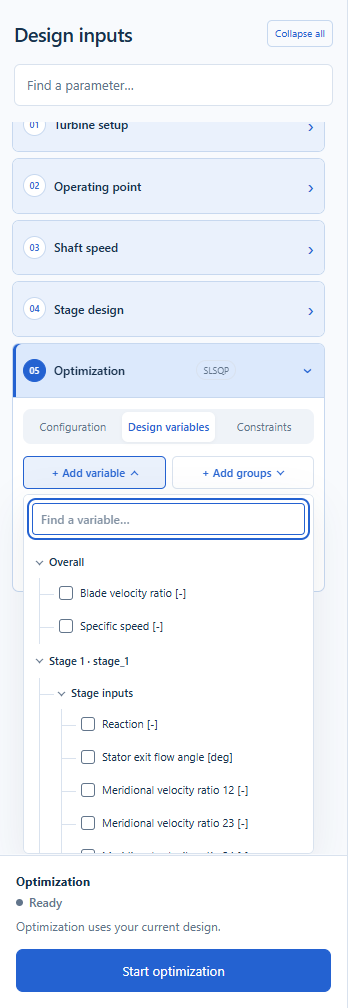
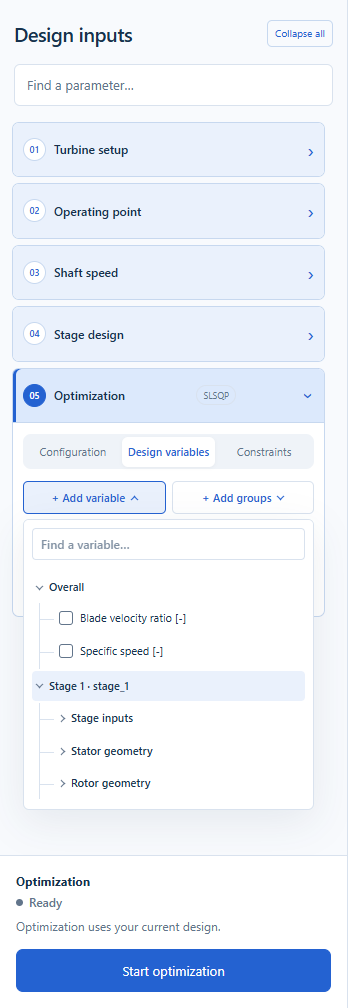
docs(app-design): refine compact editor examples and theme references
Align style-guide specimens with embedded field labels and optimization status wording, document delayed accessible tab help and reduced-motion behavior, and refresh reference captures and implementation fingerprints.

diff --git a/development/app_design/style_guide.html b/development/app_design/style_guide.html
@@ -107,7 +107,7 @@
         <div class="shell-diagram">
           <div class="diagram-header"><strong>turbodash</strong><span>Load / Save · Project links · Theme</span></div>
           <div class="diagram-rail"><span><b aria-hidden="true">◉</b>Meanline</span><span><b aria-hidden="true">◇</b>Geometry</span><span><b aria-hidden="true">▦</b>Mesh</span></div>
-          <div class="diagram-inspector"><strong>Parameter inspector</strong><span>Search</span><span>01 Turbine setup</span><span>02 Fluid state</span><span>03 Shaft speed</span><span>04 Stage design</span><span>05 Optimization</span><small>Sticky context<br>Independent scroll<br>Resize handle</small></div>
+          <div class="diagram-inspector"><strong>Parameter inspector</strong><span>Search</span><span>01 Turbine setup</span><span>02 Operating point</span><span>03 Shaft speed</span><span>04 Stage design</span><span>05 Optimization</span><small>Sticky context<br>Independent scroll<br>Resize handle</small></div>
           <div class="diagram-canvas"><strong>Results canvas</strong><p>Context and current state</p><div class="diagram-metrics"><span>Overview</span><span>Metrics</span></div><div class="diagram-plot">Geometry / plot pair</div><span class="diagram-report">Collapsible reports and technical output</span></div>
         </div>
         <figcaption>Anatomy schematic, not a running app. Desktop defaults: header 72 px, rail 92 px, inspector 348 px. The actual inspector becomes a Parameters drawer at ≤850 px; this schematic stacks its labeled regions on small screens.</figcaption>
@@ -122,15 +122,15 @@
           <details class="numbered-disclosure"><summary><span class="number-badge">04</span><span>Stage design</span></summary><div class="disclosure-body"><p class="small">Named-stage context belongs beside aerodynamic and blade-row subgroups. Keep values visible when switching editing context.</p></div></details>
         </article>
         <article class="surface component-demo"><h3>Aligned optimization rows</h3><p class="small">Example values show the layout; they are not a recommended engineering configuration.</p>
-          <div class="editor-row"><p class="row-title">Variable · sample quantity</p><div class="three-fields"><label for="sample-lower">Lower<input id="sample-lower" type="number" value="0.1" step="any"></label><label for="sample-initial">Initial<input id="sample-initial" type="number" value="0.5" step="any"></label><label for="sample-upper">Upper<input id="sample-upper" type="number" value="0.9" step="any"></label></div></div>
-          <div class="editor-row"><p class="row-title">Constraint · sample quantity</p><div class="three-fields"><label for="sample-comparison">Comparison<select id="sample-comparison"><option>≤</option><option>=</option><option>≥</option></select></label><label for="sample-target">Target<input id="sample-target" type="number" value="1" step="any"></label><label for="sample-scale">Scale<input id="sample-scale" type="number" value="1" step="any"></label></div></div>
-          <p class="small">Labels sit above values. Borders define one row; space separates successive rows.</p>
+          <div class="editor-row"><p class="row-title">Variable · sample quantity</p><div class="three-fields"><label for="sample-lower"><span>Lower</span><input id="sample-lower" type="number" value="0.1" step="any"></label><label for="sample-initial"><span>Initial</span><input id="sample-initial" type="number" value="0.5" step="any"></label><label for="sample-upper"><span>Upper</span><input id="sample-upper" type="number" value="0.9" step="any"></label></div></div>
+          <div class="editor-row"><p class="row-title">Constraint · sample quantity</p><div class="three-fields"><label for="sample-comparison"><span>Comparison</span><select id="sample-comparison"><option>≤</option><option>=</option><option>≥</option></select></label><label for="sample-target"><span>Target</span><input id="sample-target" type="number" value="1" step="any"></label><label for="sample-scale"><span>Scale</span><input id="sample-scale" type="number" value="1" step="any"></label></div></div>
+          <p class="small">Persistent labels sit inside 40 px fields above their values. Three equal columns use 5 px gaps; each row uses 8 px padding and a 5 px radius.</p>
         </article>
         <article class="surface component-demo"><h3>Hierarchical quantity selection</h3><p class="small">Show scope before leaf quantities. A group checkbox reflects full, empty, or partial selection.</p>
           <details class="quantity-menu" open><summary>Choose quantities <span class="sample-tag">Specimen</span></summary><div class="quantity-tree"><label class="tree-group"><input id="sample-stage-group" type="checkbox" data-tree-group="stage-one">Stage 1 · example</label><details open><summary>Stage inputs</summary><label><input type="checkbox" data-tree-leaf="stage-one" checked>Stage loading</label><label><input type="checkbox" data-tree-leaf="stage-one">Degree of reaction</label></details><details><summary>Stator geometry</summary><label><input type="checkbox" data-tree-leaf="stage-one">Pitch-to-chord ratio</label><label><input type="checkbox" data-tree-leaf="stage-one">Trailing-edge thickness</label></details><details><summary>Rotor geometry</summary><label><input type="checkbox" data-tree-leaf="stage-one">Pitch-to-chord ratio</label></details></div></details>
           <p class="small" id="tree-status" role="status">Quantity selection specimen.</p>
         </article>
-        <article class="surface component-demo"><h3>States stay readable</h3><p class="small">Semantic colors support text. These are static examples of status vocabulary.</p><div class="status-list"><p class="status neutral"><span aria-hidden="true"></span>Ready</p><p class="status warning"><span aria-hidden="true"></span>Inputs changed · results need recalculation</p><p class="status success"><span aria-hidden="true"></span>Completed</p><p class="status danger"><span aria-hidden="true"></span>Invalid input · review the indicated field</p></div><p class="small">Use an explicit action to run optimization. Keep progress and technical output available without taking over the whole page.</p></article>
+        <article class="surface component-demo"><h3>States stay readable</h3><p class="small">Semantic colors support text. These are static examples of the app's optimization outcomes.</p><div class="status-list"><p class="status neutral"><span aria-hidden="true"></span>Ready</p><p class="status warning"><span aria-hidden="true"></span>Design changed · result not applied</p><p class="status success"><span aria-hidden="true"></span>Applied successfully</p><p class="status danger"><span aria-hidden="true"></span>Optimization failed</p></div><p class="small">Use an explicit action to run optimization. Show green only after the current controls and displayed results match the optimized design.</p></article>
       </div>
     </section>
 
@@ -145,6 +145,8 @@
         <figure class="capture"><a href="implemented/editor_variables.png"><img src="implemented/editor_variables.png" loading="lazy" alt="Current optimization variable rows with lower, initial, and upper values"></a><figcaption>Variables · Lower / Initial / Upper</figcaption></figure>
         <figure class="capture"><a href="implemented/editor_constraints.png"><img src="implemented/editor_constraints.png" loading="lazy" alt="Current optimization constraint rows with comparison, target, and scale"></a><figcaption>Constraints · Comparison / Target / Scale</figcaption></figure>
         <figure class="capture"><a href="implemented/editor_tree.png"><img src="implemented/editor_tree.png" loading="lazy" alt="Current hierarchical quantity selector with scope and group checkboxes"></a><figcaption>Quantity selector · hierarchical groups</figcaption></figure>
+        <figure class="capture wide"><a href="implemented/workbench_performance.png"><img src="implemented/workbench_performance.png" loading="lazy" alt="Current paired efficiency and loss plots with blue and orange series and percentage-point efficiency penalties"></a><figcaption>Efficiency and loss distribution · percentage efficiency curves and percentage-point loss penalties</figcaption></figure>
+        <figure class="capture wide"><a href="implemented/workbench_velocity_triangles.png"><img src="implemented/workbench_velocity_triangles.png" loading="lazy" alt="Current velocity-triangle display selector and stage plot with directional vector arrowheads"></a><figcaption>Velocity triangles · Mach / m/s selector, vector arrowheads and common stage extents</figcaption></figure>
       </div>
     </section>
 

diff --git a/development/app_design/assets/guide.css b/development/app_design/assets/guide.css
@@ -117,11 +117,12 @@ body:not([data-theme="dark"]) .numbered-disclosure[open] .number-badge { backgro
 .segmented span { display: block; padding: 6px 10px; border-radius: 3px; font-size: 11px; }
 .segmented input:checked + span { background: var(--td-accent); color: #fff; font-weight: 600; }
 [data-theme="dark"] .segmented input:checked + span { color: var(--td-accent); background: var(--td-tint); }
-.editor-row { background: var(--td-inspector); border: 1px solid var(--td-line); border-radius: 6px; padding: 12px; margin-bottom: 12px; }
-.row-title { font-size: 11px; font-weight: 600; margin-bottom: 12px; }
-.three-fields { display: grid; grid-template-columns: repeat(3,minmax(0,1fr)); gap: 8px; }
-.three-fields label { min-width: 0; display: flex; flex-direction: column; gap: 6px; font-size: 10px; overflow-wrap: anywhere; }
-.three-fields :is(input,select) { width: 100%; height: 33px; color: var(--td-ink); background: var(--td-input); border: 1px solid var(--td-line); border-radius: 4px; padding: 5px 7px; font-size: 11px; font-variant-numeric: tabular-nums; }
+.editor-row { background: var(--td-inspector); border: 1px solid var(--td-line); border-radius: 5px; padding: 8px; margin-bottom: 8px; }
+.row-title { font-size: 11px; font-weight: 600; margin-bottom: 8px; }
+.three-fields { display: grid; grid-template-columns: repeat(3,minmax(0,1fr)); gap: 5px; }
+.three-fields label { position: relative; min-width: 0; display: block; margin: 0; }
+.three-fields label > span { position: absolute; z-index: 1; top: 4px; left: 6px; color: var(--td-muted); font-size: 9px; font-weight: 500; line-height: 11px; pointer-events: none; }
+.three-fields :is(input,select) { width: 100%; height: 40px; color: var(--td-ink); background: var(--td-input); border: 1px solid var(--td-line); border-radius: 5px; padding: 16px 5px 3px; font-size: 11px; font-variant-numeric: tabular-nums; }
 .quantity-menu { border: 1px solid var(--td-line); border-radius: 6px; background: var(--td-input); }
 .quantity-menu > summary { padding: 11px 12px; cursor: pointer; font-size: 11px; }
 .sample-tag { color: var(--td-muted); font-size: 9px; float: right; }
@@ -189,9 +190,6 @@ body:not([data-theme="dark"]) .numbered-disclosure[open] .number-badge { backgro
   .surface, .brand-surface { padding: 17px; }
   .icon-inventory { grid-template-columns: repeat(2,minmax(0,1fr)); }
   .icon-inventory > div { padding: 14px 12px; }
-  .three-fields { gap: 6px; }
-  .editor-row { padding: 10px 8px; }
-  .three-fields :is(input,select) { padding: 5px; }
   .capture-grid { grid-template-columns: minmax(0,1fr); gap: 15px; }
   .capture.wide { grid-column: auto; }
   .contents { gap: 10px 16px; }

diff --git a/development/app_design/components-and-layout.md b/development/app_design/components-and-layout.md
@@ -219,7 +219,7 @@ Choosing a result selects its workspace and stage/row scope, opens containing di
 
 Help supplements labels. Ordinary fields use a focusable `?` circle with `title` and accessible explanation. Hover and keyboard focus reveal the same information. The bubble uses panel/text/border tokens and a shadow; it does not intercept pointer events on controls beneath it.
 
-Optimization bound/constraint labels expose their own help. Those compact bubbles are `210px` wide and shift left/center/right by column to remain inside the narrow editor. Optimization tabs have explanatory tooltips after `750ms`, triggered by hover or focus, with maximum width `280px`, padding `10px 12px`, and `12px / 1.5` text. Bubble colors follow the active theme, including tooltips rendered outside the workbench root. Keep geometry-model limitations in nearby help where they affect interpretation.
+Optimization bound/constraint labels expose their own help. Those compact bubbles are `210px` wide and shift left/center/right by column to remain inside the narrow editor. Optimization tabs expose explanatory text through `aria-describedby` and a `data-tooltip` CSS bubble after `750ms` of hover or keyboard-visible focus. The bubble spans the tab strip, sits `6px` below it, and uses `10px 12px` padding, `6px` radius and `12px / 1.5` text. It stays inside the workbench and follows the active theme tokens, with pointer events disabled. The accessible description is retained in a visually hidden span. Keep geometry-model limitations in nearby help where they affect interpretation.
 
 ## 5. Actions, status and asynchronous state
 
@@ -344,7 +344,7 @@ Accessibility here describes implemented semantics and interaction support; it d
 
 All interactive elements receive a `2px` accent focus outline with `3px` offset. Inputs additionally change border to the accent and receive a restrained focus halo. Selected segmented controls keep a keyboard-visible outline through their hidden native radio input. Disabled controls visibly reduce emphasis; do not rely on color alone to communicate failure or success.
 
-Honor `prefers-reduced-motion: reduce`: disable app transitions/animations and animated scroll behavior. Search/context changes, opening a disclosure, changing theme and inspecting a mesh are view actions and must not cause numerical recalculation. See [workbench.js](../../turbodash/apps/app_turbine_optimization/assets/workbench.js), [optimization.js](../../turbodash/apps/app_turbine_optimization/assets/optimization.js), and the focus/reduced-motion rules in [workbench.css](../../turbodash/apps/app_turbine_optimization/assets/workbench.css).
+Honor `prefers-reduced-motion: reduce`: disable motion, animated transitions and animated scroll behavior. Keep the tab-help visibility delay at `750ms`; the delay has no movement and prevents help flashing while navigating. Search/context changes, opening a disclosure, changing theme and inspecting a mesh are view actions and must not cause numerical recalculation. See [workbench.js](../../turbodash/apps/app_turbine_optimization/assets/workbench.js), [optimization.js](../../turbodash/apps/app_turbine_optimization/assets/optimization.js), and the focus/reduced-motion rules in [workbench.css](../../turbodash/apps/app_turbine_optimization/assets/workbench.css).
 
 ## 10. Rebuild checks and transfer to another package
 

diff --git a/development/app_design/implementation-map.md b/development/app_design/implementation-map.md
@@ -95,7 +95,7 @@ Reviewed on **21 October 2026** against the local optimization workbench, includ
 | Source path (repository root) | SHA-256 |
 | --- | --- |
[6 lines of base64/hex data omitted]
@@ -107,4 +107,4 @@ Reviewed on **21 October 2026** against the local optimization workbench, includ
[5 lines of base64/hex data omitted]

diff --git a/development/app_design/visual-style.md b/development/app_design/visual-style.md
@@ -114,7 +114,7 @@ Efficiency is plotted in percent. The loss budget is an efficiency penalty in pe
 3. Apply tokens to editors, reports, tooltips, dropdowns, dialogs and figures together.
 4. Preserve form values, focus/selection context, running jobs and manual plot zoom.
 5. Reapply the current theme after server-rendered figures or controls arrive. Theme selection must survive ordinary edits without a flash back to light mode.
-6. Respect reduced-motion preferences. The production workbench disables its animations, transitions and smooth scrolling for that preference.
+6. Respect reduced-motion preferences. The production workbench disables motion, animated transitions and smooth scrolling for that preference. The tab-help visibility delay remains 750 ms: it introduces no movement and prevents help flashing during navigation.
 
 The app uses `turbodash.workbench.theme` for persisted theme and `turbodash.workbench.inspector-width` for width. Give another package its own storage keys. The standalone guide uses a separate key and never modifies application preferences.
 
